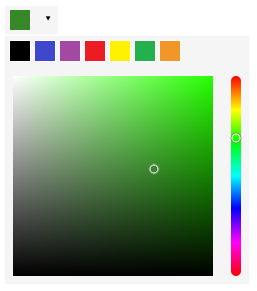
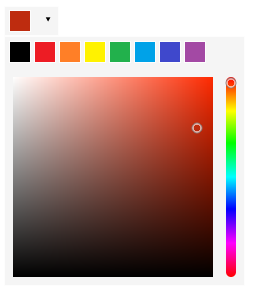
Handle null/undefined value passed as selectedColor. Optimize renders. Refactor

diff --git a/src/components/HueSelector.tsx b/src/components/HueSelector.tsx
@@ -4,21 +4,28 @@ import { HsvColor, rgbToHsv } from "../utils/Color";
 import { PointerPosition, SelectedColorPointer } from "./SelectedColorPointer";
 
 export type HueSelectorProps = {
-    selectedColor: HsvColor;
+    selectedHue: number;
+    selectedSaturation: number;
+    selectedValue: number;
     onColorSelected: (color: HsvColor) => void;
 };
 
-export const HueSelector = ({ selectedColor, onColorSelected }: HueSelectorProps) => {
+export const HueSelector = ({ selectedHue, selectedSaturation, selectedValue, onColorSelected }: HueSelectorProps) => {
     const canvasRef = useRef<HTMLCanvasElement>(null);
     const [pointerPosition, setPointerPosition] = useState<PointerPosition>(null);
 
     useEffect(() => {
-        setPointerPosition(calculatePointerPosition(canvasRef.current, selectedColor.h));
-    }, [selectedColor.h]);
+        setPointerPosition(calculatePointerPosition(canvasRef.current, selectedHue));
+    }, [selectedHue]);
 
     return (
         <div className={styles.canvasContainer}>
-            <HueSelectorCanvas canvasRef={canvasRef} selectedColor={selectedColor} onColorSelected={onColorSelected} />
+            <HueSelectorCanvas
+                canvasRef={canvasRef}
+                selectedSaturation={selectedSaturation}
+                selectedValue={selectedValue}
+                onColorSelected={onColorSelected}
+            />
             <SelectedColorPointer position={pointerPosition} />
         </div>
     );
@@ -26,11 +33,27 @@ export const HueSelector = ({ selectedColor, onColorSelected }: HueSelectorProps
 
 type HueSelectorCanvasProps = {
     canvasRef: MutableRefObject<HTMLCanvasElement>;
-    selectedColor: HsvColor;
+    selectedSaturation: number;
+    selectedValue: number;
     onColorSelected: (color: HsvColor) => void;
 };
 
-const HueSelectorCanvas = ({ canvasRef, selectedColor, onColorSelected }: HueSelectorCanvasProps) => {
+const offsetToColorNameMap = new Map<number, string>([
+    [0, "red"],
+    [0.17, "yellow"],
+    [0.33, "lime"],
+    [0.5, "cyan"],
+    [0.66, "blue"],
+    [0.83, "magenta"],
+    [1, "red"],
+]);
+
+const HueSelectorCanvas = ({
+    canvasRef,
+    selectedSaturation,
+    selectedValue,
+    onColorSelected,
+}: HueSelectorCanvasProps) => {
     useEffect(() => {
         const canvas = canvasRef.current;
         const context = canvas?.getContext("2d");
@@ -38,13 +61,7 @@ const HueSelectorCanvas = ({ canvasRef, selectedColor, onColorSelected }: HueSel
         canvas.width = canvas.offsetWidth;
 
         const gradient = context.createLinearGradient(0, 0, 0, context.canvas.height);
-        gradient.addColorStop(0, "red");
-        gradient.addColorStop(0.17, "yellow");
-        gradient.addColorStop(0.33, "lime");
-        gradient.addColorStop(0.5, "cyan");
-        gradient.addColorStop(0.66, "blue");
-        gradient.addColorStop(0.83, "magenta");
-        gradient.addColorStop(1, "red");
+        offsetToColorNameMap.forEach((colorName: string, offset: number) => gradient.addColorStop(offset, colorName));
         context.fillStyle = gradient;
         context.fillRect(0, 0, context.canvas.width, context.canvas.height);
 
@@ -55,8 +72,8 @@ const HueSelectorCanvas = ({ canvasRef, selectedColor, onColorSelected }: HueSel
             const pixel = context.getImageData(x, y, 1, 1).data;
             onColorSelected({
                 h: rgbToHsv({ r: pixel[0], g: pixel[1], b: pixel[2] }).h,
-                s: selectedColor.s,
-                v: selectedColor.v,
+                s: selectedSaturation,
+                v: selectedValue,
             });
         };
 
@@ -65,12 +82,16 @@ const HueSelectorCanvas = ({ canvasRef, selectedColor, onColorSelected }: HueSel
         return () => {
             canvas.removeEventListener("click", handleClick);
         };
-    }, [onColorSelected, selectedColor.h, selectedColor.s, selectedColor.v, canvasRef]);
+    }, [onColorSelected, selectedSaturation, selectedValue, canvasRef]);
 
     return <canvas ref={canvasRef} className={styles.canvas} />;
 };
 
 function calculatePointerPosition(canvas: HTMLCanvasElement, selectedHue: number) {
+    if (selectedHue == null) {
+        return null;
+    }
+
     const relativePointerVerticalPositionInFraction = selectedHue / 360;
     const relativeVerticalPointerPosition = canvas.height * relativePointerVerticalPositionInFraction;
     const canvasBoundingRect = canvas.getBoundingClientRect();

diff --git a/src/components/SaturationAndValueSelector.tsx b/src/components/SaturationAndValueSelector.tsx
@@ -3,24 +3,33 @@ import styles from "./SaturationAndValueSelector.module.css";
 import { HsvColor, hsvToRgbHex, rgbToHsv } from "../utils/Color";
 import { PointerPosition, SelectedColorPointer } from "./SelectedColorPointer";
 
+const defaultHue = 0;
+
 export type SaturationAndValueSelectorProps = {
-    selectedColor: HsvColor;
+    selectedHue: number;
+    selectedSaturation: number;
+    selectedValue: number;
     onColorSelected: (color: HsvColor) => void;
 };
 
-export const SaturationAndValueSelector = ({ selectedColor, onColorSelected }: SaturationAndValueSelectorProps) => {
+export const SaturationAndValueSelector = ({
+    selectedHue,
+    selectedSaturation,
+    selectedValue,
+    onColorSelected,
+}: SaturationAndValueSelectorProps) => {
     const canvasRef = useRef<HTMLCanvasElement>(null);
     const [pointerPosition, setPointerPosition] = useState<PointerPosition>(null);
 
     useEffect(() => {
-        setPointerPosition(calculatePointerPosition(canvasRef.current, selectedColor.s, selectedColor.v));
-    }, [selectedColor.s, selectedColor.v]);
+        setPointerPosition(calculatePointerPosition(canvasRef.current, selectedSaturation, selectedValue));
+    }, [selectedSaturation, selectedValue]);
 
     return (
         <div className={styles.canvasContainer}>
             <SaturationAndValueSelectorCanvas
                 canvasRef={canvasRef}
-                selectedColor={selectedColor}
+                selectedHue={selectedHue}
                 onColorSelected={onColorSelected}
             />
             <SelectedColorPointer position={pointerPosition} />
@@ -30,13 +39,13 @@ export const SaturationAndValueSelector = ({ selectedColor, onColorSelected }: S
 
 type SaturationAndValueSelectorCanvasProps = {
     canvasRef: MutableRefObject<HTMLCanvasElement>;
-    selectedColor: HsvColor;
+    selectedHue: number;
     onColorSelected: (color: HsvColor) => void;
 };
 
 const SaturationAndValueSelectorCanvas = ({
     canvasRef,
-    selectedColor,
+    selectedHue,
     onColorSelected,
 }: SaturationAndValueSelectorCanvasProps) => {
     useEffect(() => {
@@ -64,19 +73,19 @@ const SaturationAndValueSelectorCanvas = ({
         const canvas = canvasRef.current;
         const context = canvas.getContext("2d");
 
-        const mainColor = hsvToRgbHex({ h: selectedColor.h, s: 1, v: 1 });
+        const mainColor = hsvToRgbHex({ h: selectedHue ?? defaultHue, s: 1, v: 1 });
         const horizontalGradient = context.createLinearGradient(0, 0, context.canvas.width, 0);
-        horizontalGradient.addColorStop(0, "#FFFFFFFF");
+        horizontalGradient.addColorStop(0, "#ffffffff");
         horizontalGradient.addColorStop(1, mainColor);
         context.fillStyle = horizontalGradient;
         context.fillRect(0, 0, context.canvas.width, context.canvas.height);
 
         const verticalGradient = context.createLinearGradient(0, 0, 0, context.canvas.height);
         verticalGradient.addColorStop(0, "#00000000");
-        verticalGradient.addColorStop(1, "#000000FF");
+        verticalGradient.addColorStop(1, "#000000ff");
         context.fillStyle = verticalGradient;
         context.fillRect(0, 0, context.canvas.width, context.canvas.height);
-    }, [selectedColor.h, selectedColor.s, selectedColor.v, canvasRef]);
+    }, [selectedHue, canvasRef]);
 
     return <canvas ref={canvasRef} className={styles.canvas} />;
 };
@@ -86,6 +95,10 @@ function calculatePointerPosition(
     selectedColorSaturation: number,
     selectedColorValue: number
 ) {
+    if (selectedColorSaturation == null || selectedColorValue == null) {
+        return null;
+    }
+
     const relativePointerHorizontalPositionInFraction = selectedColorSaturation;
     const relativeHorizontalPointerPosition = canvas.width * relativePointerHorizontalPositionInFraction;
     const relativePointerVerticalPositionInFraction = 1 - selectedColorValue;

diff --git a/src/stories/ColorChooser.stories.tsx b/src/stories/ColorChooser.stories.tsx
@@ -1,23 +1,16 @@
-import React from "react";
+import React, { useState } from "react";
 import type { Meta, StoryObj } from "@storybook/react";
-import { useArgs } from "@storybook/preview-api";
 
 import { ColorChooser } from "..";
-import { HexColor } from "../utils/Color";
 
 const meta = {
     component: ColorChooser,
     tags: ["autodocs"],
     decorators: [
         (Story, ctx) => {
-            const [, setArgs] = useArgs<typeof ctx.args>();
+            const [selectedColor, setSelectedColor] = useState(ctx.args.selectedColor);
 
-            const onColorSelected = (selectedColor: HexColor) => {
-                ctx.args.onColorSelected?.(selectedColor);
-                setArgs({ selectedColor });
-            };
-
-            return <Story args={{ ...ctx.args, onColorSelected }} />;
+            return <Story args={{ ...ctx.args, selectedColor, onColorSelected: setSelectedColor }} />;
         },
     ],
 } satisfies Meta<typeof ColorChooser>;
@@ -29,7 +22,7 @@ export const BothPredefinedAndCustomColors: Story = {
     args: {
         mode: {
             allowCustomColors: true,
-            predefinedColors: ["#000000", "#3f48cc", "#a349a4", "#ed1c24", "#fff200", "#22b14c", "#f29727"],
+            predefinedColors: ["#000000", "#ed1c24", "#ff7f27", "#fff200", "#22b14c", "#00a2e8", "#3f48cc", "#a349a4"],
         },
         selectedColor: "#3f48cc",
         portalRootId: "portal-root",
@@ -40,7 +33,7 @@ export const PredefinedColorsOnly: Story = {
     args: {
         mode: {
             allowCustomColors: false,
-            predefinedColors: ["#000000", "#3f48cc", "#a349a4", "#ed1c24", "#fff200", "#22b14c", "#f29727"],
+            predefinedColors: ["#000000", "#ed1c24", "#ff7f27", "#fff200", "#22b14c", "#00a2e8", "#3f48cc", "#a349a4"],
         },
         selectedColor: "#3f48cc",
         portalRootId: "portal-root",

diff --git a/src/components/CustomColorChooser.tsx b/src/components/CustomColorChooser.tsx
@@ -11,7 +11,7 @@ export type CustomColorChooserProps = {
 };
 
 export const CustomColorChooser = ({ selectedColor, onColorSelected }: CustomColorChooserProps) => {
-    const selectedColorHsv = useMemo(() => hexToHsv(selectedColor), [selectedColor]);
+    const selectedColorHsv = useMemo(() => selectedColor && hexToHsv(selectedColor), [selectedColor]);
     const handleColorSelected = useCallback(
         (hsvColor: HsvColor) => onColorSelected(hsvToRgbHex(hsvColor)),
         [onColorSelected]
@@ -19,8 +19,18 @@ export const CustomColorChooser = ({ selectedColor, onColorSelected }: CustomCol
 
     return (
         <div className={styles.customColorChooserContainer}>
-            <SaturationAndValueSelector selectedColor={selectedColorHsv} onColorSelected={handleColorSelected} />
-            <HueSelector selectedColor={selectedColorHsv} onColorSelected={handleColorSelected} />
+            <SaturationAndValueSelector
+                selectedHue={selectedColorHsv?.h}
+                selectedSaturation={selectedColorHsv?.s}
+                selectedValue={selectedColorHsv?.v}
+                onColorSelected={handleColorSelected}
+            />
+            <HueSelector
+                selectedHue={selectedColorHsv?.h}
+                selectedSaturation={selectedColorHsv?.s}
+                selectedValue={selectedColorHsv?.v}
+                onColorSelected={handleColorSelected}
+            />
         </div>
     );
 };

diff --git a/src/components/ColorChooser.tsx b/src/components/ColorChooser.tsx
@@ -7,6 +7,7 @@ import { PredefinedColorChooser } from "./PredefinedColorChooser";
 import { useClickOutsideDetection } from "../hooks/useClickOutsideDetection";
 import { useScrollDetection } from "../hooks/useScrollDetection";
 import { useKeyDownDetection } from "../hooks/useKeyDownDetection";
+import classNames from "classnames";
 
 export type ColorChooserMode =
     | { allowCustomColors: false; predefinedColors: HexColor[] }
@@ -52,7 +53,10 @@ export const ColorChooser = ({
     return (
         <div className={className}>
             <button ref={buttonRef} onClick={handleButtonClick} className={styles.button}>
-                <div className={styles.colorPreview} style={{ backgroundColor: selectedColor }}></div>
+                <div
+                    className={classNames(styles.colorPreview, { [styles.empty]: !selectedColor })}
+                    style={{ backgroundColor: selectedColor }}
+                ></div>
             </button>
             {isModalOpen && (
                 <Modal position={modalPosition} portalRootId={portalRootId}>

diff --git a/src/components/ColorChooser.module.css b/src/components/ColorChooser.module.css
@@ -1,18 +1,30 @@
 .button {
     width: 55px;
     height: 30px;
-    background-color: #F5F5F5;
+    background-color: #f5f5f5;
     border-style: solid;
     border-width: 1px;
-    border-color: #FDFDFD;
+    border-color: #fdfdfd;
 }
 
 .colorPreview {
     width: 20px;
     height: 20px;
+    line-height: 20px;
     border-style: solid;
     border-width: 1px;
-    border-color: #FDFDFD;
+    border-color: #fdfdfd;
+}
+
+.empty {
+    background-color: white;
+}
+
+.empty:before {
+    content: "\2715";
+    font-size: 20px;
+    display: block;
+    color: black;
 }
 
 .button:before {
@@ -25,8 +37,8 @@
     display: flex;
     flex-direction: column;
     padding: 4px;
-    background-color: #F5F5F5;
+    background-color: #f5f5f5;
     border-style: solid;
     border-width: 1px;
-    border-color: #FDFDFD;
+    border-color: #fdfdfd;
 }

diff --git a/src/components/CustomColorChooser.module.css b/src/components/CustomColorChooser.module.css
@@ -1,6 +1,6 @@
 .customColorChooserContainer {
     display: grid;
-    grid-gap: 10px;
+    grid-gap: 5px;
     grid-template-columns: 208px 18px;
     grid-template-rows: 208px;
 }

diff --git a/src/components/PredefinedColorChooser.module.css b/src/components/PredefinedColorChooser.module.css
@@ -11,6 +11,6 @@
     width: 20px;
     height: 20px;
     border-style: solid;
-    border-color: #FDFDFD;
+    border-color: #fdfdfd;
     border-width: 1px;
 }
